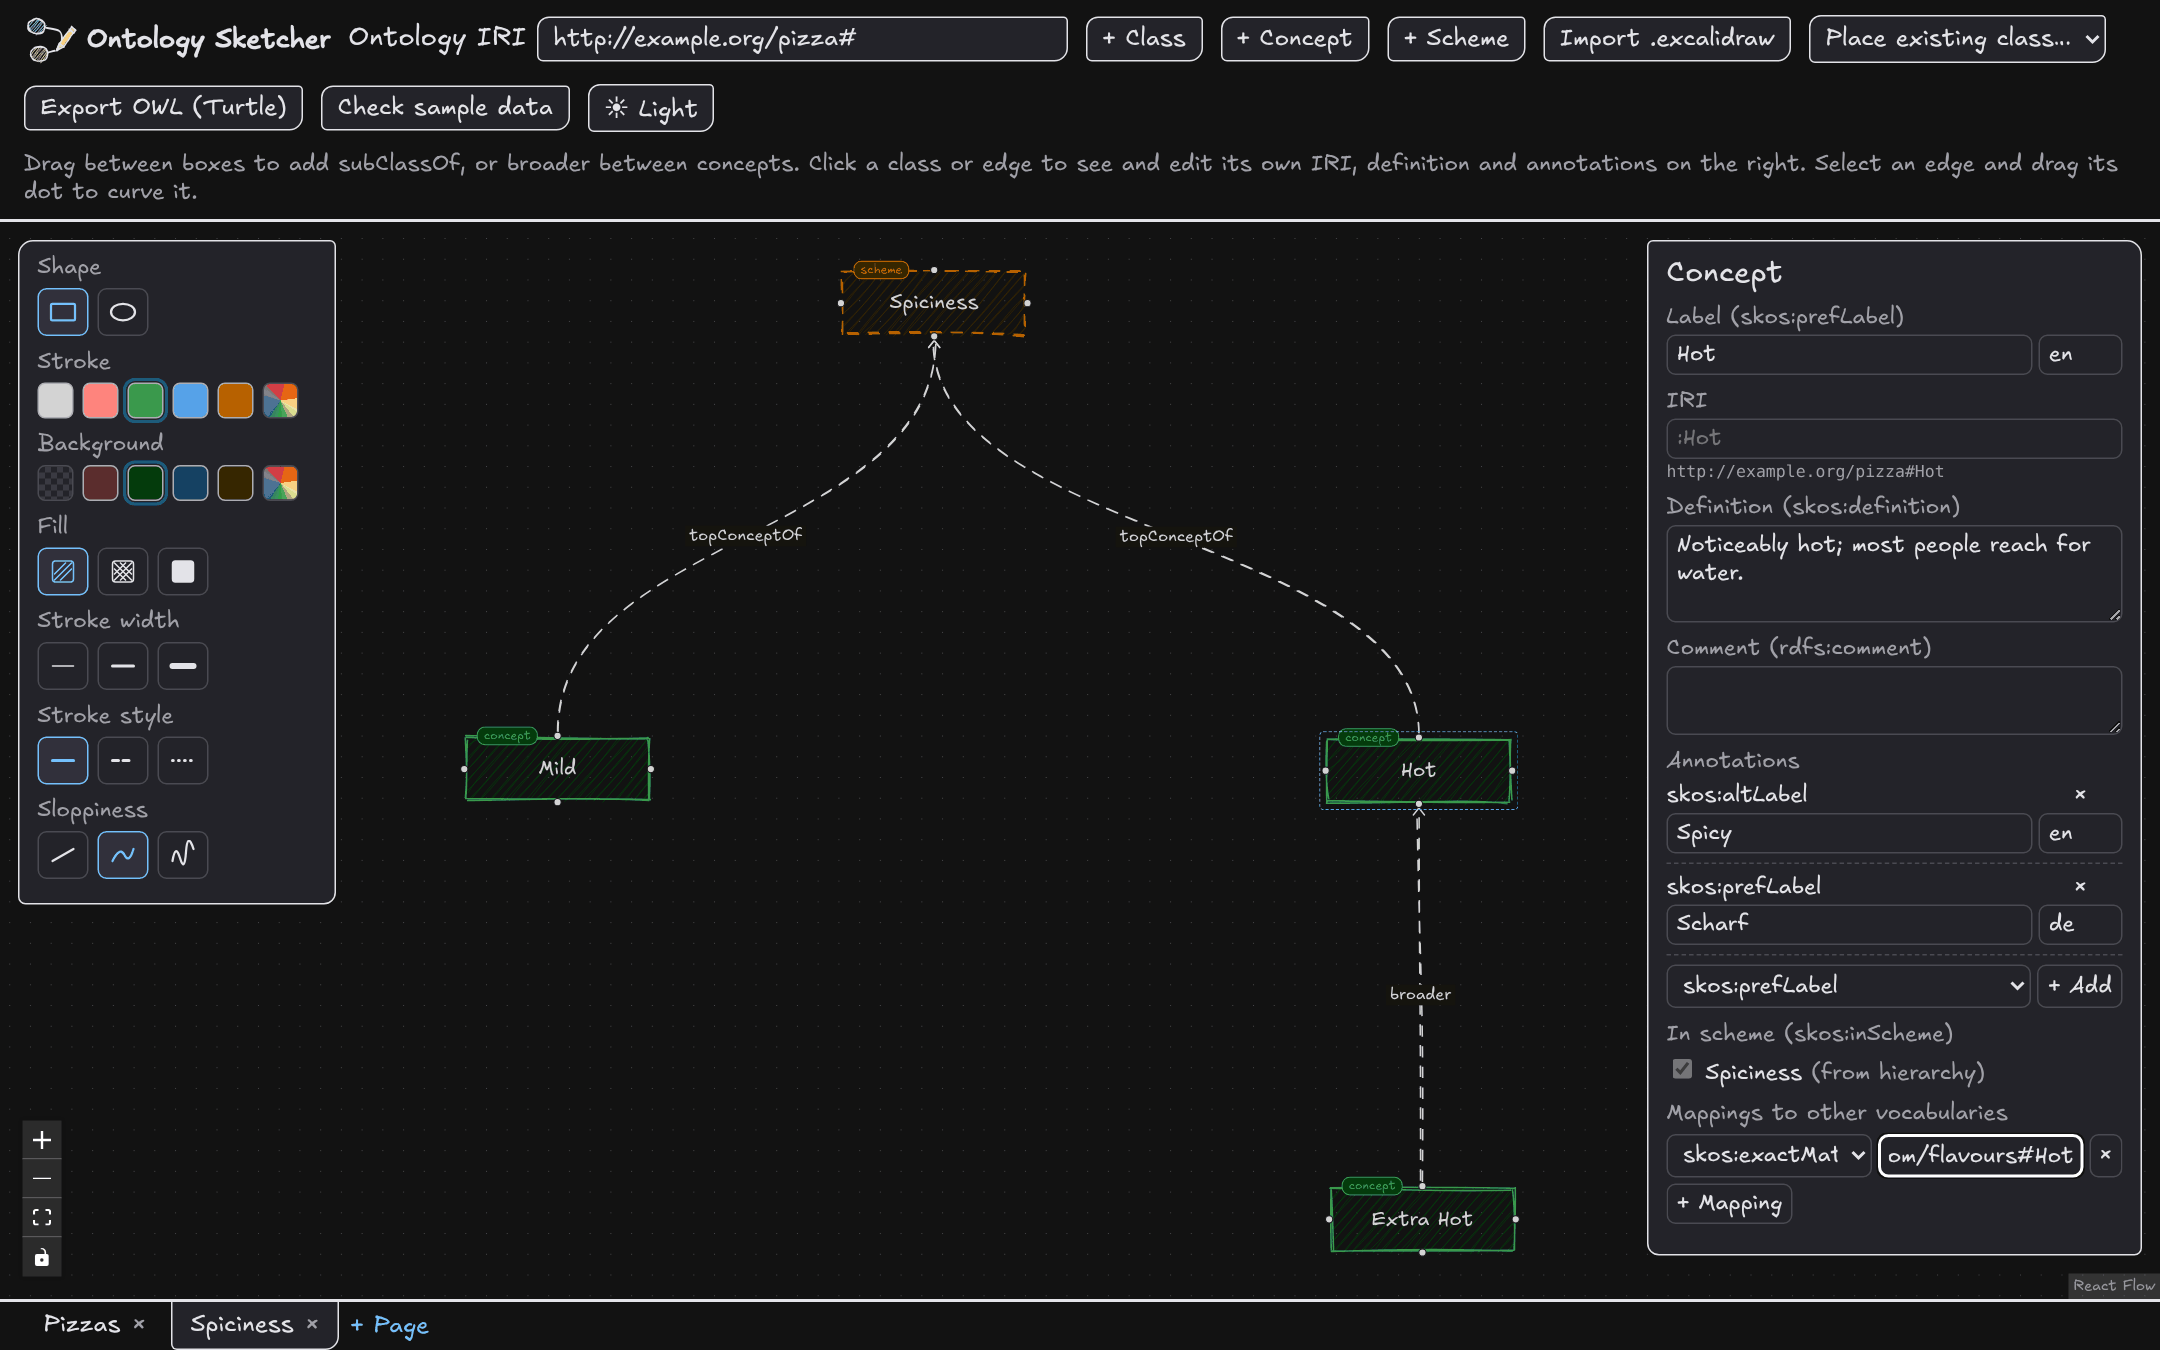
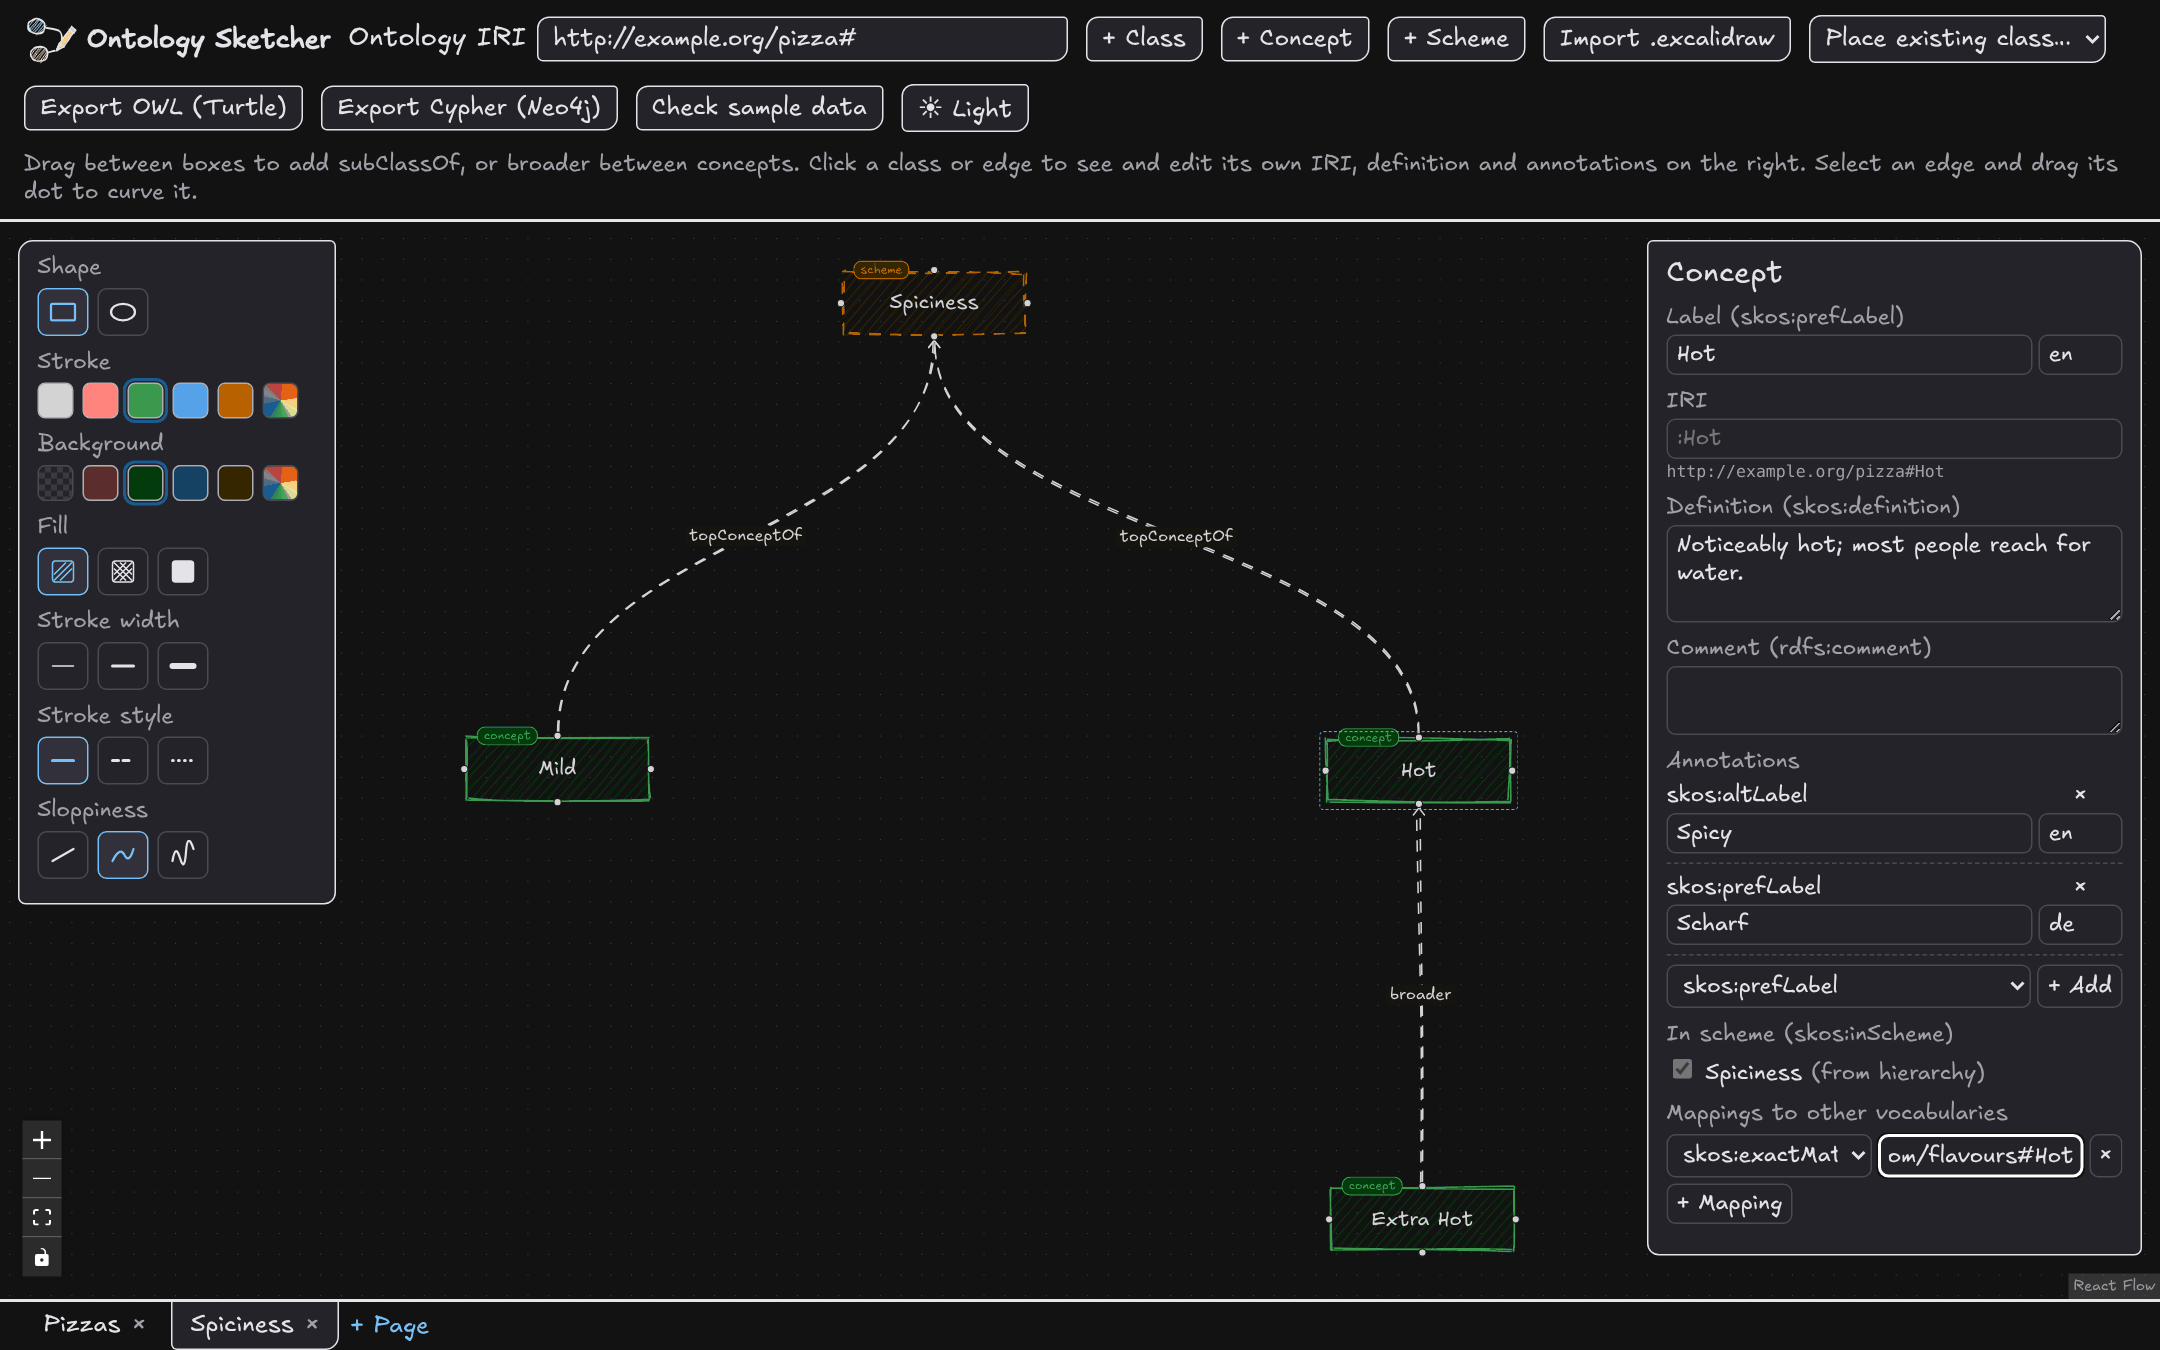
Show the Export Cypher (Neo4j) button and preview in the README
Retake the screenshots with the new toolbar button and add one of the
Cypher preview, and describe the button in the export section.

Changed region(s): [[0.1551, 0.0622, 0.4653, 0.0933], [0.6204, 0.8711, 0.7134, 0.9333], [0.4343, 0.2178, 0.4653, 0.2489]]

diff --git a/README.md b/README.md
@@ -106,8 +106,11 @@ add axioms and data constraints, check a few example instances, and hand the res
   declared so it stays in OWL 2 DL too.
 - Properties drawn between several class pairs get a union domain and range, so reusing a property doesn't make
   the reasoner draw conclusions you never drew.
-- **Download for Neo4j** writes a Cypher script that loads the ontology and the shapes into Neo4j through
-  [neosemantics (n10s)](https://neo4j.com/labs/neosemantics/). Run it in Neo4j Browser or cypher-shell.
+- **Export Cypher (Neo4j)** previews and downloads `ontology.cypher`, a script that loads the ontology and the
+  shapes into Neo4j through [neosemantics (n10s)](https://neo4j.com/labs/neosemantics/). Run it in Neo4j Browser
+  or cypher-shell; its comments say what n10s keeps and what stays in the `.ttl` export.
+
+![The Export Cypher (Neo4j) preview next to the pizza drawing: a commented Cypher script that sets up n10s, adds a pizza prefix and imports the ontology inline](docs/screenshot-neo4j.png)
 
 <details>
 <summary>The SHACL shapes exported from the drawing above (<code>shapes.ttl</code>, excerpt)</summary>
